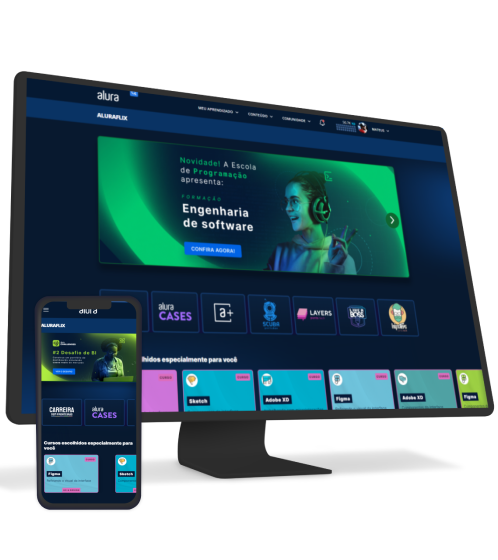
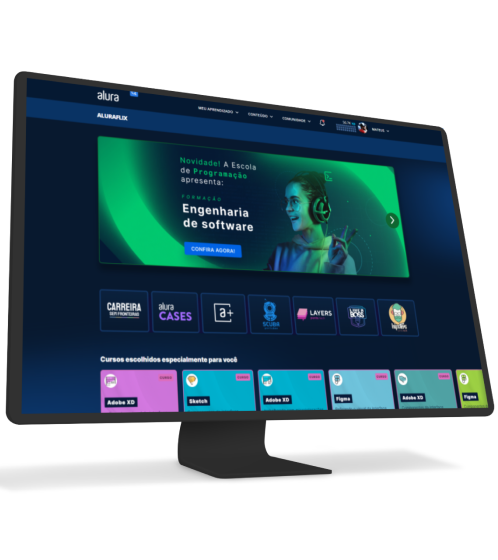
Criando a segunda sessão do site

Changed region(s): [[0.0602, 0.5161, 0.3012, 0.9107]]

diff --git a/index.html b/index.html
@@ -20,5 +20,13 @@
             <p class="container__aviso">*O preço pode variar caso a assinatura seja feita em outros planos.</p>
         </div>
     </section>
+
+    <section class="container secundario">
+        <img src="/img/Plataformas.png" alt="Um monitor e um celular com o alura plus aberto" class="secundario__imagem">
+        <div class="container__descricao">
+            <h2 class="descricao__titulo">Assista do seu jeito</h2>
+            <p class="descricao__texto">Aproveite a tela grande da TV ou assista no tablet, laptop, celular e outros aparelhos. Nossa seleção de cursos não para de crescer.</p>
+        </div>
+    </section>
 </body>
 </html>

diff --git a/CSS/styles.css b/CSS/styles.css
@@ -65,3 +65,23 @@ body {
 .container__caixa {
     margin: 0 6em;
 }
+
+.secundario__imagem {
+    width: 70%;
+}
+
+.secundario {
+    align-items: center;
+    margin: 0 10em;
+}
+
+.descricao__titulo {
+    font-weight: 700;
+    font-size: 48px;
+    color: var(--branco-principal);
+    margin-bottom: 0.1em;
+}
+
+.descricao__texto {
+    color: var(--cinza-secundario);
+}
